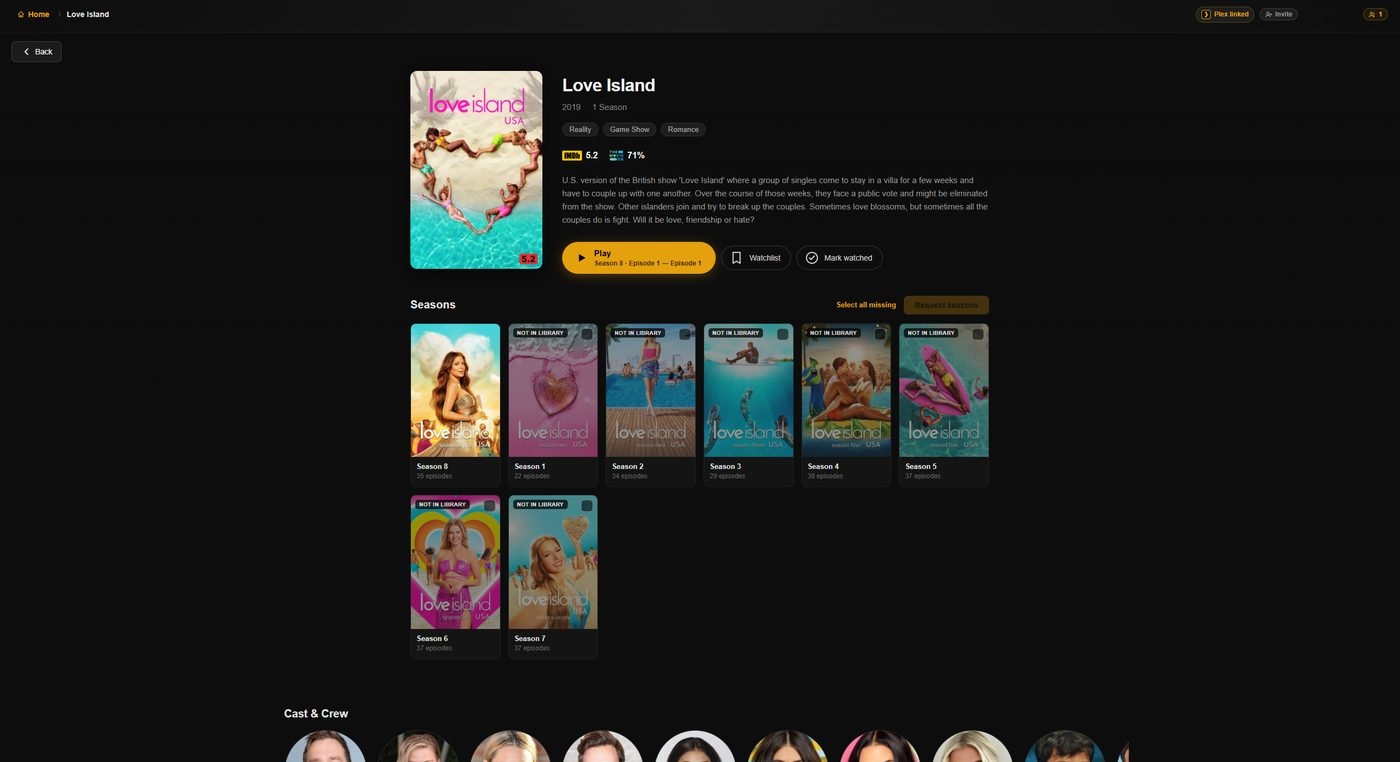
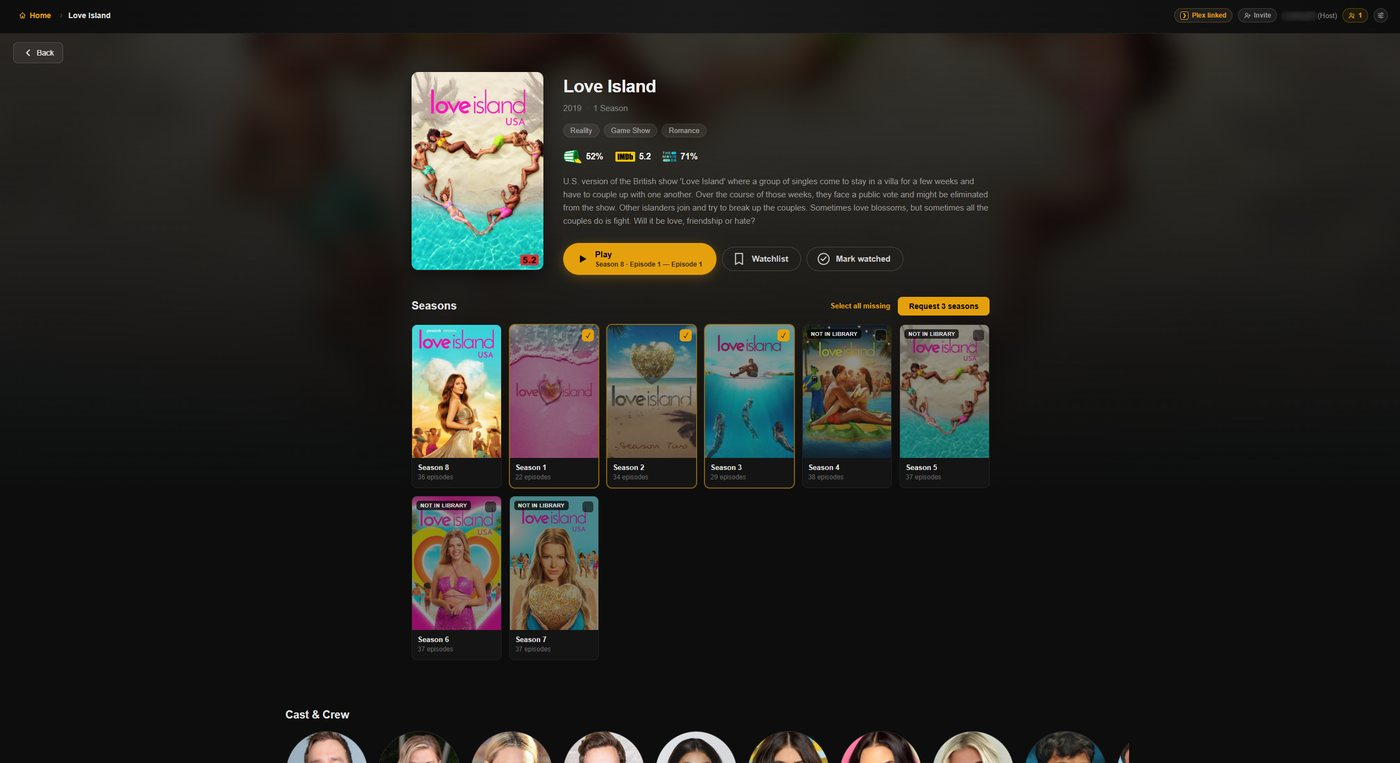
Refresh the screenshots and show the newer features in the README
Retakes of the player, home, search, title, cast, phone and season-request
screens, and new ones for roles, season pages, subtitles, quality, Settings,
picture-in-picture, Stats for nerds, Rich Presence, the phone player and the
Watchlist. Discord names, server and bot names, the client ID, domains,
avatars and the Plex account are blurred.

The README also says who a track change reaches: a host's moves everyone
still on the host's tracks, anyone else's moves only them.

diff --git a/README.md b/README.md
@@ -47,6 +47,10 @@ The host controls the room timeline. Playback stays in sync for all viewers.
 Hosts can grant playback control to co-hosts or transfer the host role. Viewers
 can ask the host or a co-host to pause or resume.
 
+| ![The People panel, with Co-host and Make host beside a viewer](docs/screenshots/people.png) | ![A viewer's request to resume, as the host sees it](docs/screenshots/pause-request.png) |
+| :-- | :-- |
+| The host makes someone co-host or hands over the room. | A viewer's request, as the host sees it. |
+
 ### Plex browser
 
 The home screen renders the same hubs Plex generates, including Continue
@@ -73,10 +77,15 @@ connected.
 For TV shows, season pages show missing and unaired episodes with air dates, and
 available episodes can be played directly from the season view.
 
+![A season page, with its unaired episodes a click away](docs/screenshots/season.jpg)
+
 ### Per-viewer audio, subtitles and quality
 
 Each viewer selects their own audio track, subtitles and quality without
-affecting other participants. Track selections persist into the next episode
+affecting other participants. The host's audio and subtitles are where the room
+starts: when the host changes them, everyone still watching the host's tracks
+moves with them, and anyone who picked their own stays where they are. Track
+selections persist into the next episode
 when the same tracks are available. Subtitles are drawn by each player, styled
 the way Plex draws them; their size, position, colour, background and font can
 be changed, and subtitles that are out of sync can be adjusted in the player
@@ -84,9 +93,15 @@ bar. A viewer on a slow connection can pick a lower quality and get a stream of
 their own, and a player that can't decode HEVC gets an H.264 stream of its own,
 so nobody else's picture is lowered for them.
 
+![Subtitles drawn by the player, with their timing and look being adjusted](docs/screenshots/subtitle-look.jpg)
+
 **Settings** sets what every title starts with for you: subtitle and audio
 languages (subtitles can be shown only when the audio is in another language),
 default quality, volume, the subtitle look, and your watch history setting.
+
+| <img src="docs/screenshots/player-menu-quality.png" alt="The player's Quality menu" width="280"> | <img src="docs/screenshots/settings.png" alt="The Settings panel" width="280"> |
+| :-- | :-- |
+| **Quality** in the player changes only your stream. | **Settings** sets what every title starts with. |
 
 ### Playback features
 
@@ -112,6 +127,12 @@ default quality, volume, the subtitle look, and your watch history setting.
 - **Watched controls:** mark a title watched, or apply the change to a whole
   season or show. Works with or without a linked Plex account.
 
+![Picture-in-picture: the film keeps playing in a corner while you browse](docs/screenshots/pip.jpg)
+
+| ![Stats for nerds on a copied stream](docs/screenshots/stats.png) | ![Stats for nerds on a re-encoded stream, with the reason](docs/screenshots/stats-reencoded.png) |
+| :-- | :-- |
+| A copied stream: the original picture. | A re-encode, and why: a picture subtitle burned in. |
+
 > [!NOTE]
 > Skip buttons and seek previews require Plex to have generated the underlying
 > data. Enable **Detect intros and credits** and **Generate video preview
@@ -126,6 +147,10 @@ This can repeat the title on profile layouts that display both fields.
 It describes the shared room even while you browse locally; the count is room
 membership, not a claim that every participant's player is running.
 
+| ![The Watching card on a Discord profile](docs/screenshots/presence-profile.png) | ![The invitation card in a channel, with the title and time](docs/screenshots/presence-invite.png) |
+| :-- | :-- |
+| Your profile while the room plays. | The invitation in the channel, with the title and time. |
+
 When duration is known, playing sessions send start/end timestamps for Discord's
 native progress display. Discord controls each card's layout; the app cannot
 force a compact popover to use the full profile layout. Pause removes the
@@ -137,6 +162,8 @@ Open **People** in the browsing header or player and turn off **Show media
 details on Discord** for generic presence without the title, artwork, or progress.
 The choice is saved on this device and applies only to your own presence.
 Previously fetched artwork may remain in Discord's cache.
+
+![The Show media details on Discord setting in People](docs/screenshots/presence-toggle.png)
 
 Artwork uses the public HTTPS origin configured in `REDIRECT_URI`. That origin
 must be reachable by Discord's image proxy without an extra login:
@@ -160,9 +187,11 @@ The mobile layout includes compact library rows, stacked title pages, controls
 adapted to Discord's mobile header, a centered play button, and double-tap to
 skip ten seconds.
 
-| ![Browsing TV shows on a phone](docs/screenshots/phone-browse.jpg) | ![A movie detail page on a phone](docs/screenshots/phone-title.jpg) |
+| ![Browsing movies on a phone](docs/screenshots/phone-browse.jpg) | ![A movie detail page on a phone](docs/screenshots/phone-title.jpg) |
 | :-- | :-- |
 | Browse with three posters per row. | Open a title without desktop-sized clutter. |
+
+![The player on a phone, turned sideways](docs/screenshots/phone-player.jpg)
 
 ## Personal Plex sync
 
@@ -195,6 +224,8 @@ Linked users see a **Watchlist** tab for their Plex Universal Watchlist and can
 add or remove titles from detail pages. The **Watchlist** tab replaces the local
 **History** tab; progress remains available through **Continue Watching** and
 watched controls.
+
+![The Watchlist tab for a linked Plex account](docs/screenshots/watchlist.jpg)
 
 ### Authentication
 
